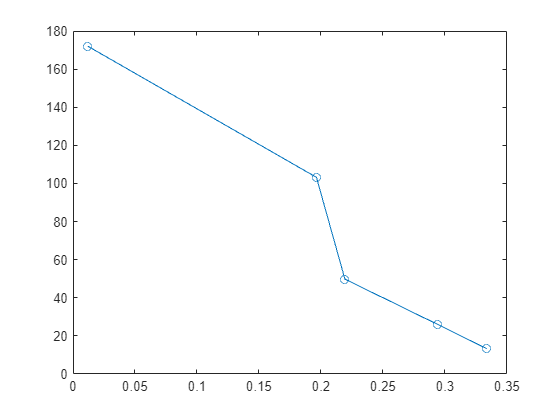
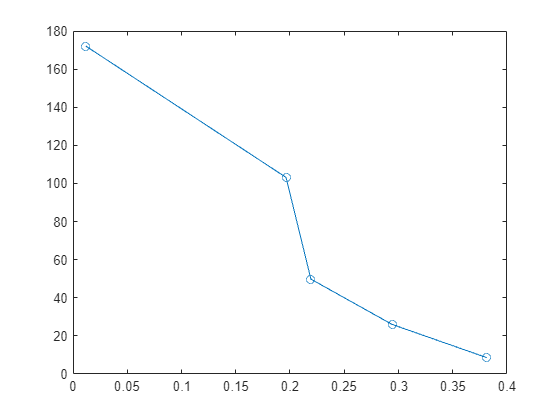
generated

diff --git a/report.md b/report.md
@@ -8,11 +8,11 @@ ld(ix,:) = []
 ```
 | |t|result|computeTime|score|commit|
 |:--:|:--:|:--:|:--:|:--:|:--:|
-|1|02-May-2024 21:43:39|172.0743|0.0118|861.5540|0|
-|2|03-May-2024 16:37:51|103.1756|0.1964|535.5132|0|
-|3|03-May-2024 16:52:19|49.7914|0.2193|270.8836|0|
-|4|03-May-2024 21:06:41|26.0168|0.2941|159.4943|0|
-|5|03-May-2024 21:15:48|13.3092|0.3337|99.9140|0|
+|1|02-May-2024 21:43:39|172.0743|0.0118|861.5540|'foo'|
+|2|03-May-2024 16:37:51|103.1756|0.1964|535.5132|'foo'|
+|3|03-May-2024 16:52:19|49.7914|0.2193|270.8836|'foo'|
+|4|03-May-2024 21:06:41|26.0168|0.2941|159.4943|'foo'|
+|5|03-May-2024 21:38:06|8.6216|0.3813|81.2332|'c4d4f514a6d582d08d8a35b0b32c2a66d40ea3c4'|
 
 ```matlab
 plot(ld.computeTime,ld.result,"-o")
